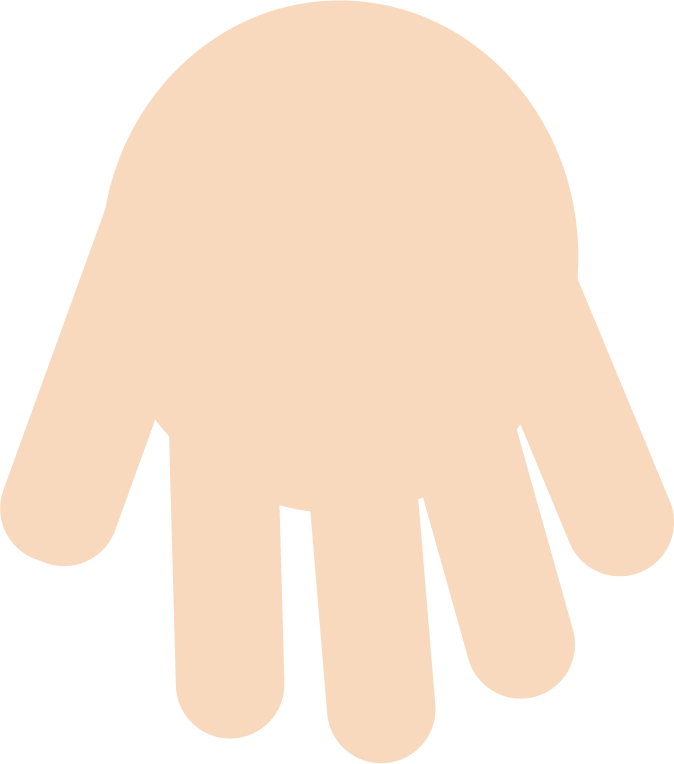
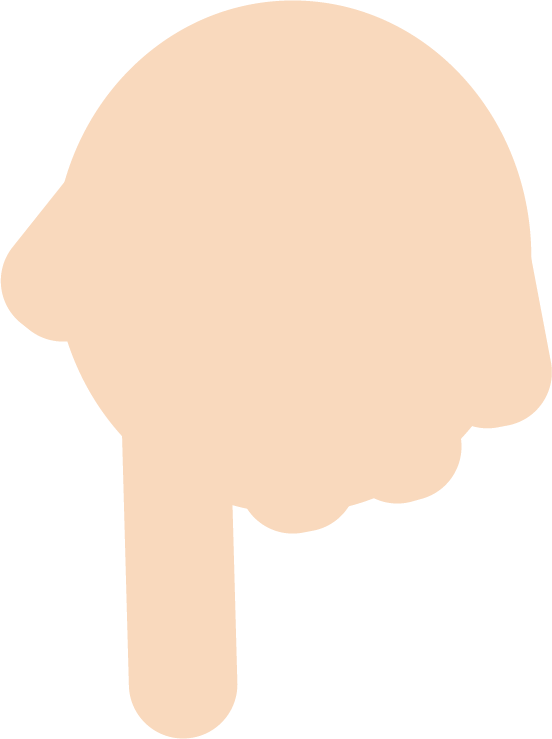
1

Changed region(s): [[0.0, 0.0, 1.0, 1.0], [0.2464, 0.0311, 0.3388, 0.0934]]

diff --git a/script.js b/script.js
@@ -14,15 +14,13 @@ $('document').ready(function () {
     players.push('<div id="playerTwo" class="player"></div>');
 
 
-    hands.push('<div id="one" class="hands"><img id="imgone"></img></div>');
-    hands.push('<div id="two" class="hands"><img id="imgtwo"></img></div>');
-    hands.push('<div id="three" class="hands"><img id="imgthree"></img></div>');
-    hands.push('<div id="four" class="hands"><img id="imgfour"></img></div>');
-    $('#imageone').setimage('img/0_hand_0.png');
+    hands.push('<div id="one" class="hands"><img id="imgone" src="img/1_hand_0.png"></img></div>');
+    hands.push('<div id="two" class="hands"><img id="imgtwo" src="img/1_hand_0.png"></img></div>');
+    hands.push('<div id="three" class="hands"><img id="imgthree" src="img/1_hand_0.png"></img></div>');
+    hands.push('<div id="four" class="hands"><img id="imgfour" src="img/1_hand_0.png"></img></div>');
+
     let fists = [];
-    function setimage(){
-        $('#imageone').setimage();
-    }
+
     class Fist {
         constructor(player, side, id) {
             this.player = player;
@@ -37,7 +35,7 @@ $('document').ready(function () {
                 if (other.num + this.num > 10) {
                     other.num += this.num - 10;
                 }
-                else{
+                else {
                     other.num += this.num;
                 }
             }
@@ -89,12 +87,46 @@ $('document').ready(function () {
             return '#four';
         }
     }
-
-    function updateHtml() {
-        $('#one').html(fists[0].num);
-        $('#two').html(fists[1].num);
-        $('#three').html(fists[2].num);
-        $('#four').html(fists[3].num);
+    function setimage(num) {
+        if (num == 0) {
+            return 'img/0_hand_0.png';
+        }
+        if (num == 1) {
+            return 'img/1_hand_0.png';
+        }
+        if (num == 2) {
+            return 'img/2_hand_0.png';
+        }
+        if (num == 3) {
+            return 'img/3_hand_0.png';
+        }
+        if (num == 4) {
+            return 'img/4_hand_0.png';
+        }
+        if (num == 5) {
+            return 'img/5_hand_0.png';
+        }
+        if (num == 6) {
+            return 'img/6_hand_0.png';
+        }
+        if (num == 7) {
+            return 'img/7_hand_0.png';
+        }
+        if (num == 8) {
+            return 'img/8_hand_0.png';
+        }
+        if (num == 9) {
+            return 'img/9_hand_0.png';
+        }
+        if (num == 10) {
+            return 'img/0_hand_0.png';
+        }
+    }
+    function update() {
+        $('#imgone').attr('src', setimage(fists[0].num));
+        $('#imgtwo').attr('src', setimage(fists[1].num));
+        $('#imgthree').attr('src', setimage(fists[2].num));
+        $('#imgfour').attr('src', setimage(fists[3].num));
     }
 
     $('#mainContainer').append(players[0]);
@@ -149,14 +181,20 @@ $('document').ready(function () {
                 if (turn == 1) {
                     turn = 2;
                 }
-                else if (turn == 2){
+                else if (turn == 2) {
                     turn = 1;
                 }
                 phase--;
             }
         }
-        console.log(phase);
-        updateHtml();
+        if(turn == 1){
+            $('.playerTwo').css('opacity', 0.5);
+        }
+        else{
+            $('.playerOne').css('opacity', 0.5);
+        }
+        //console.log(phase);
+        update();
     });
 
 });

diff --git a/style.css b/style.css
@@ -20,5 +20,23 @@ body{
     width: 50vw;
     height: 50vh;
     background-color:white;
+    text-align: center;
 }
 
+img{
+    margin: 10vh;
+    width: auto;
+    max-width: 20vw;
+    height: 30vh;
+    max-height: 30vh;
+}
+
+#imgone{
+    transform: scaleX(-1);
+}
+#imgfour{
+    transform: scaleY(-1);
+}
+#imgthree{
+    transform: scale(-1);
+}
